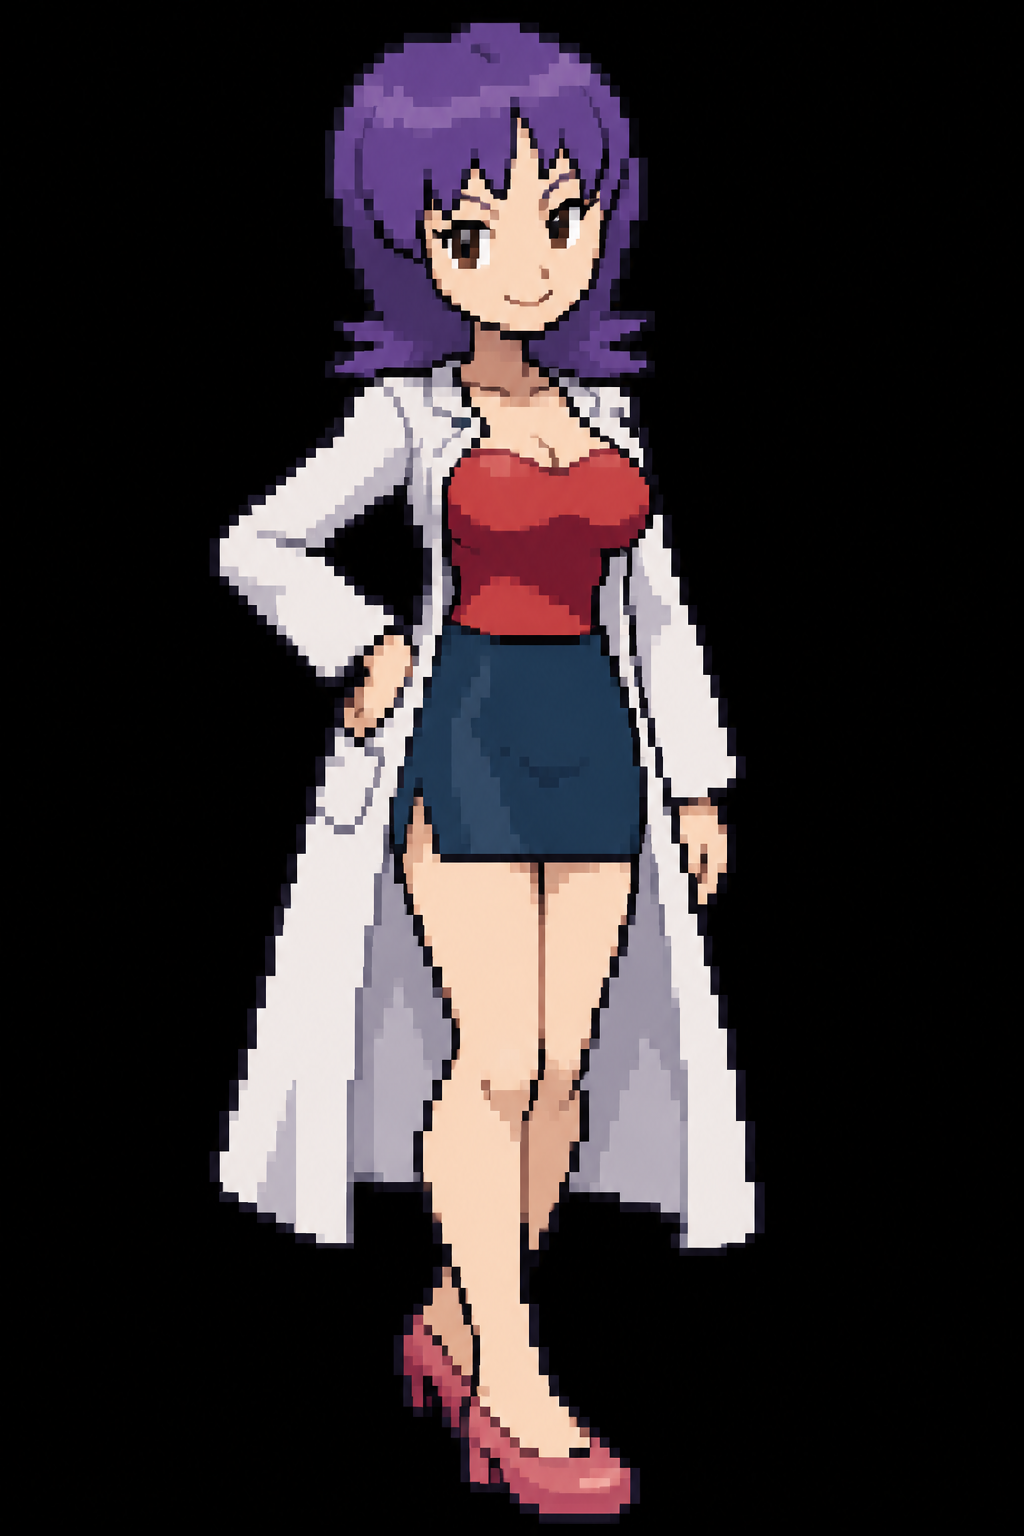
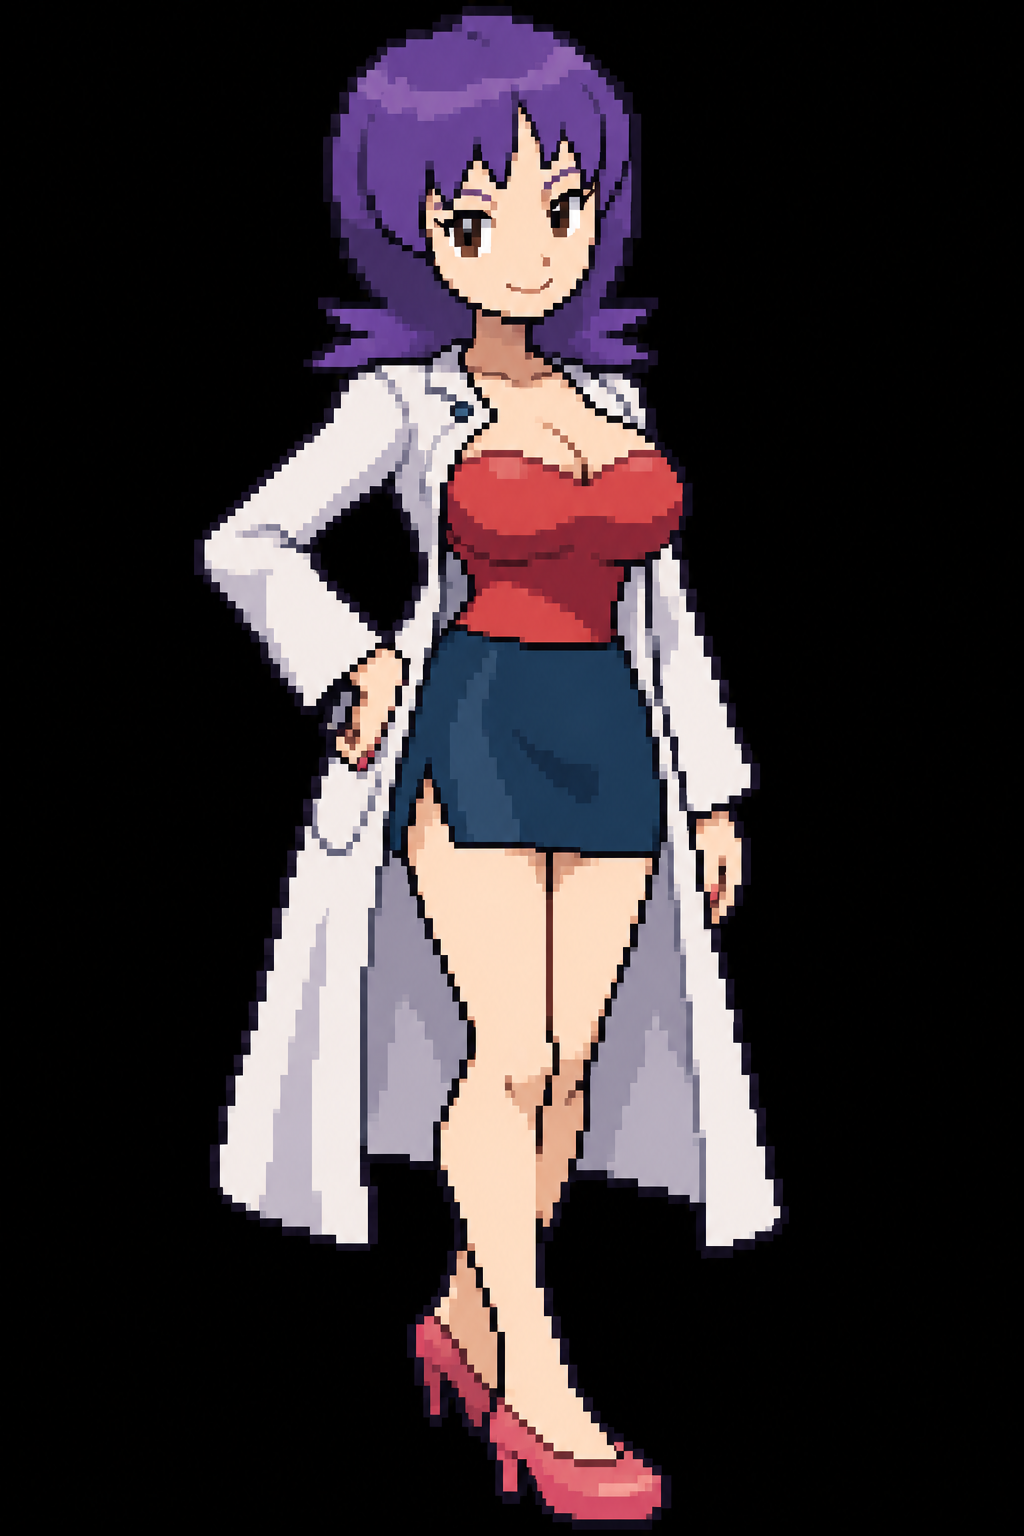
Professor Mia: the updated art; enclosed background gaps stay transparent
make_mia.py now treats any sizeable dark region as background, not just those
touching the border, so the gap between her arm and hip is see-through.

Claude-Session: https://claude.ai/code/session_01GB2e6PoZQL4WWVZUhWb6XE

Changed region(s): [[0.1875, 0.0, 0.7812, 1.0], [0.4375, 0.4688, 0.4688, 0.5]]

diff --git a/tools/make_mia.py b/tools/make_mia.py
@@ -36,18 +36,21 @@ def main():
             blk = idx[int(j * CELL) + 1:int((j + 1) * CELL) - 1, int(i * CELL) + 1:int((i + 1) * CELL) - 1].ravel()
             v, c = np.unique(blk, return_counts=True)
             rgb[j, i] = pal[v[np.argmax(c)]]
-    # background: near-black regions connected to the border
+    # background: near-black regions touching the border, plus any sizeable
+    # enclosed one (the gap between an arm on the hip and the body); thin
+    # dark detail lines inside the figure are far smaller and stay
     dark = rgb.max(2) < 40
-    lab, _ = ndimage.label(dark)
+    lab, n = ndimage.label(dark)
     border = set(np.unique(np.concatenate([lab[0], lab[-1], lab[:, 0], lab[:, -1]]))) - {0}
-    bg = np.isin(lab, list(border))
+    sizes = ndimage.sum(dark, lab, range(1, n + 1))
+    big = {i + 1 for i, sz in enumerate(sizes) if sz >= 40}
+    bg = np.isin(lab, list(border | big))
     fig = ~bg
     # keep only the main figure (drop specks)
     flab, n = ndimage.label(fig)
     if n > 1:
         sizes = ndimage.sum(fig, flab, range(1, n + 1))
         fig = flab == (int(np.argmax(sizes)) + 1)
-        fig = ndimage.binary_fill_holes(fig)
     rgba = np.zeros((H, W, 4), np.uint8)
     rgba[..., :3] = rgb
     rgba[..., 3] = np.where(fig, 255, 0)
